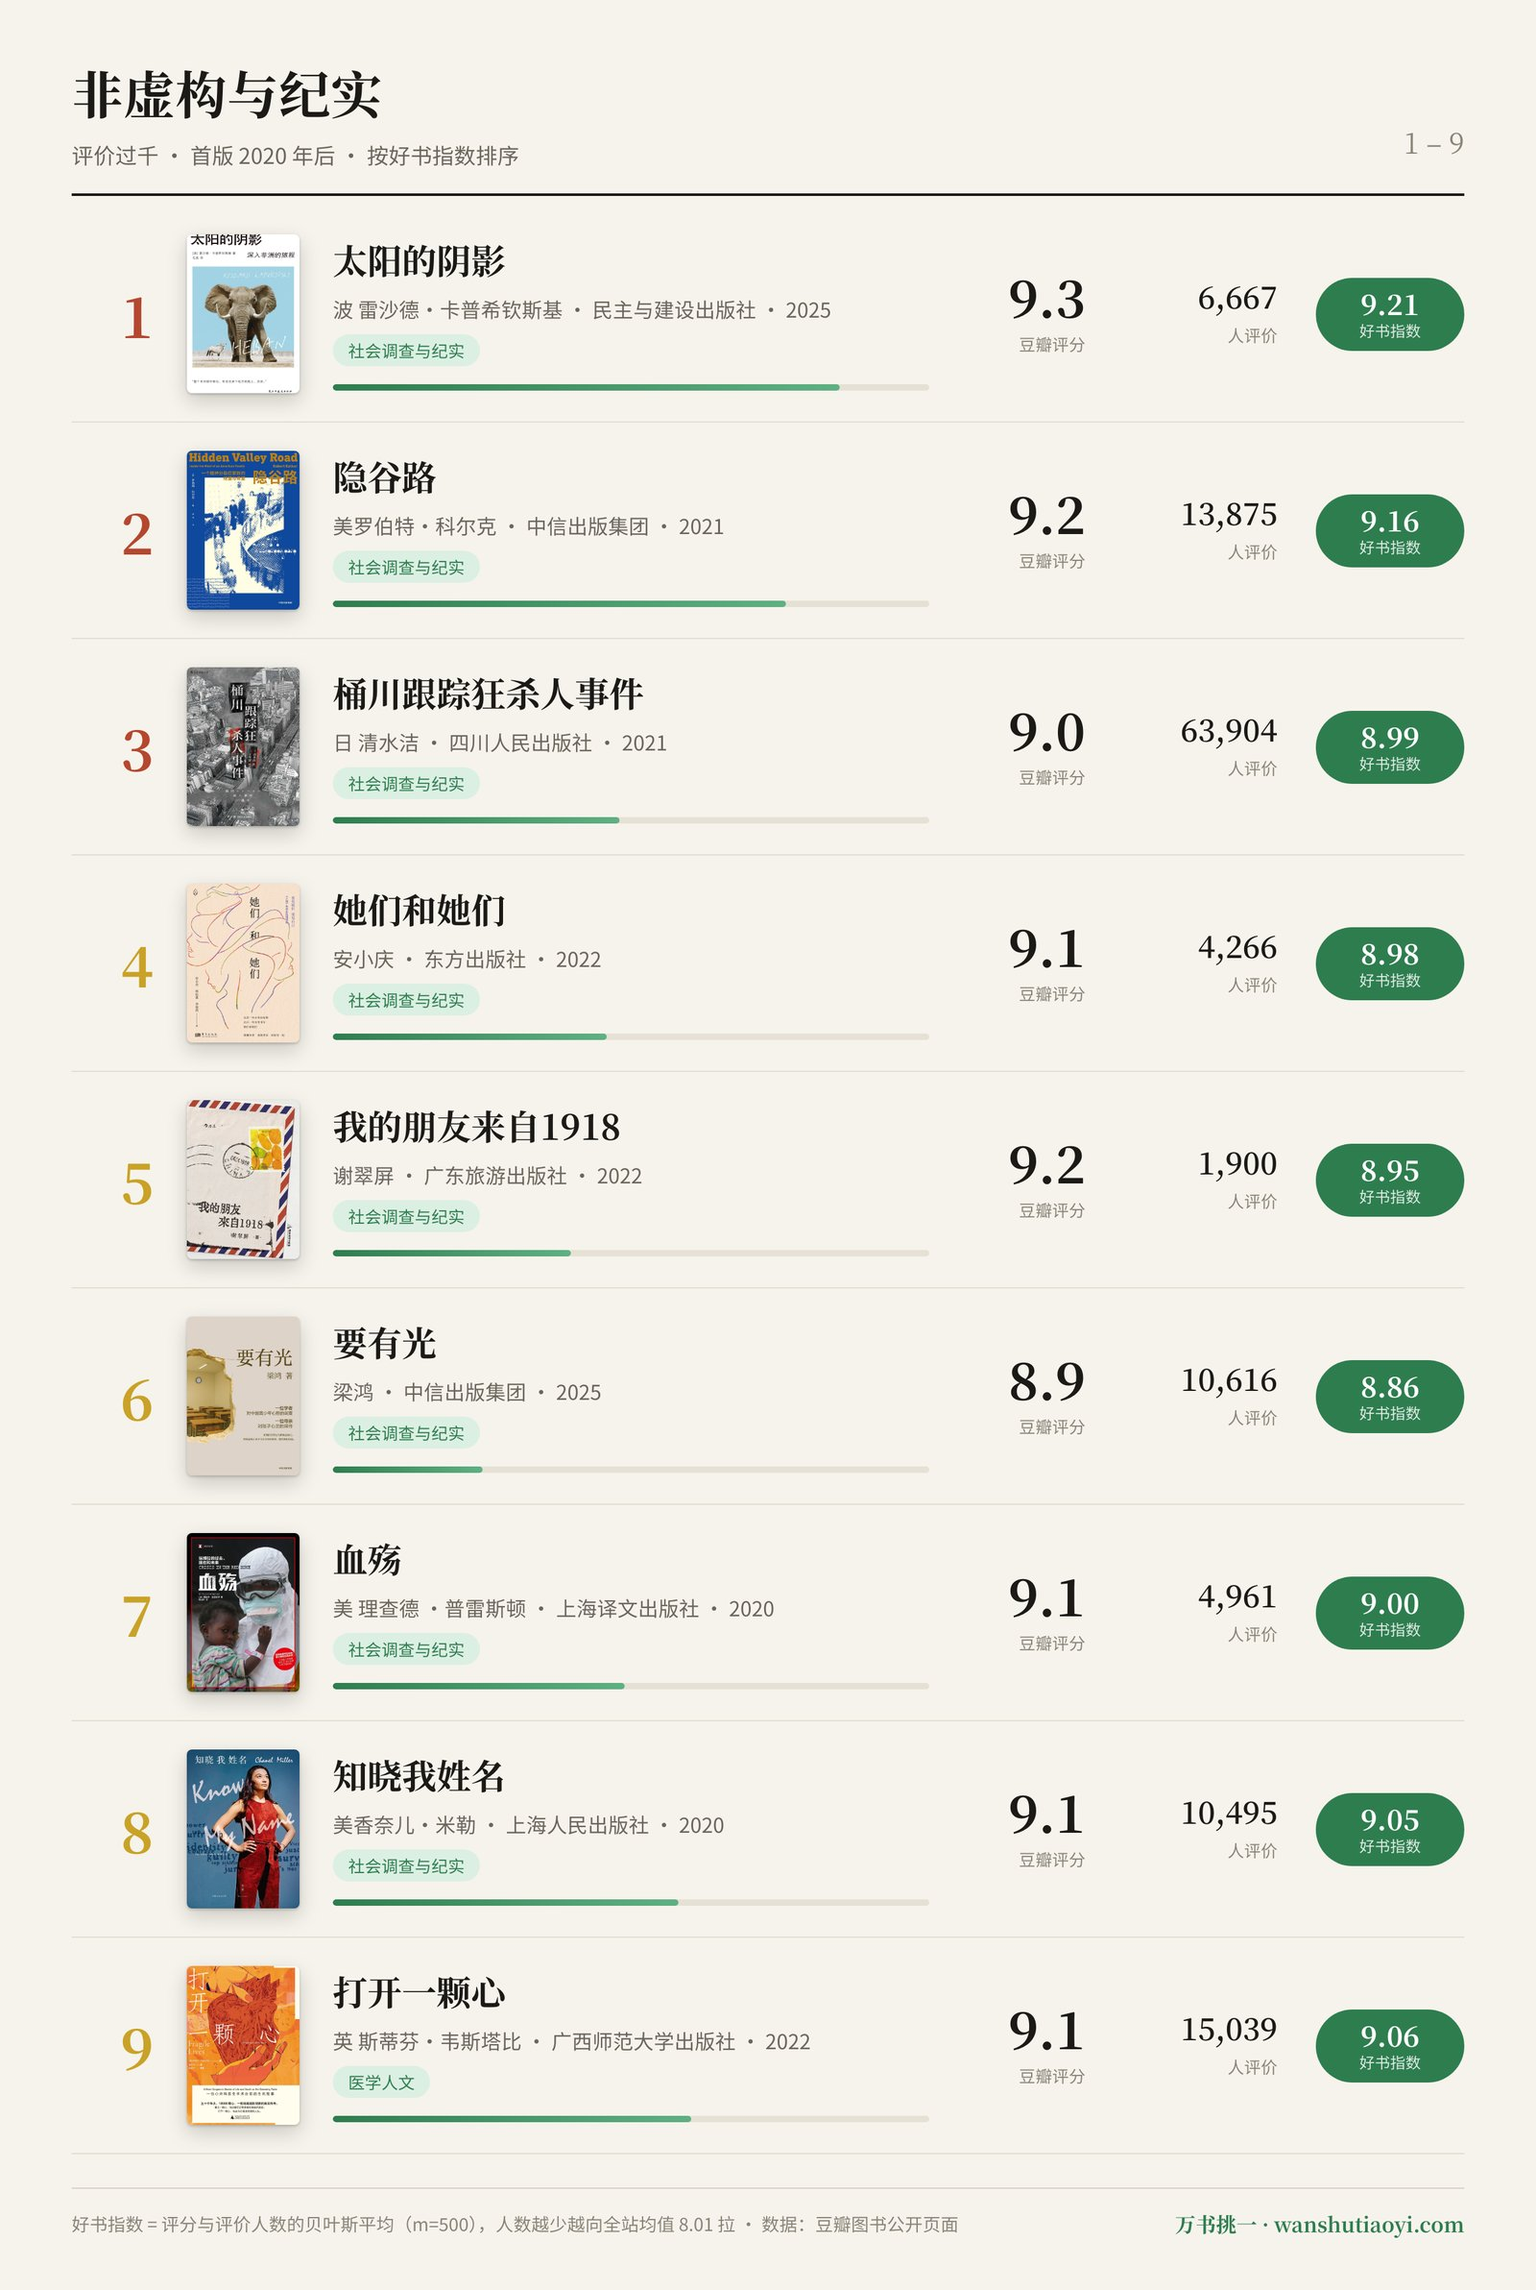
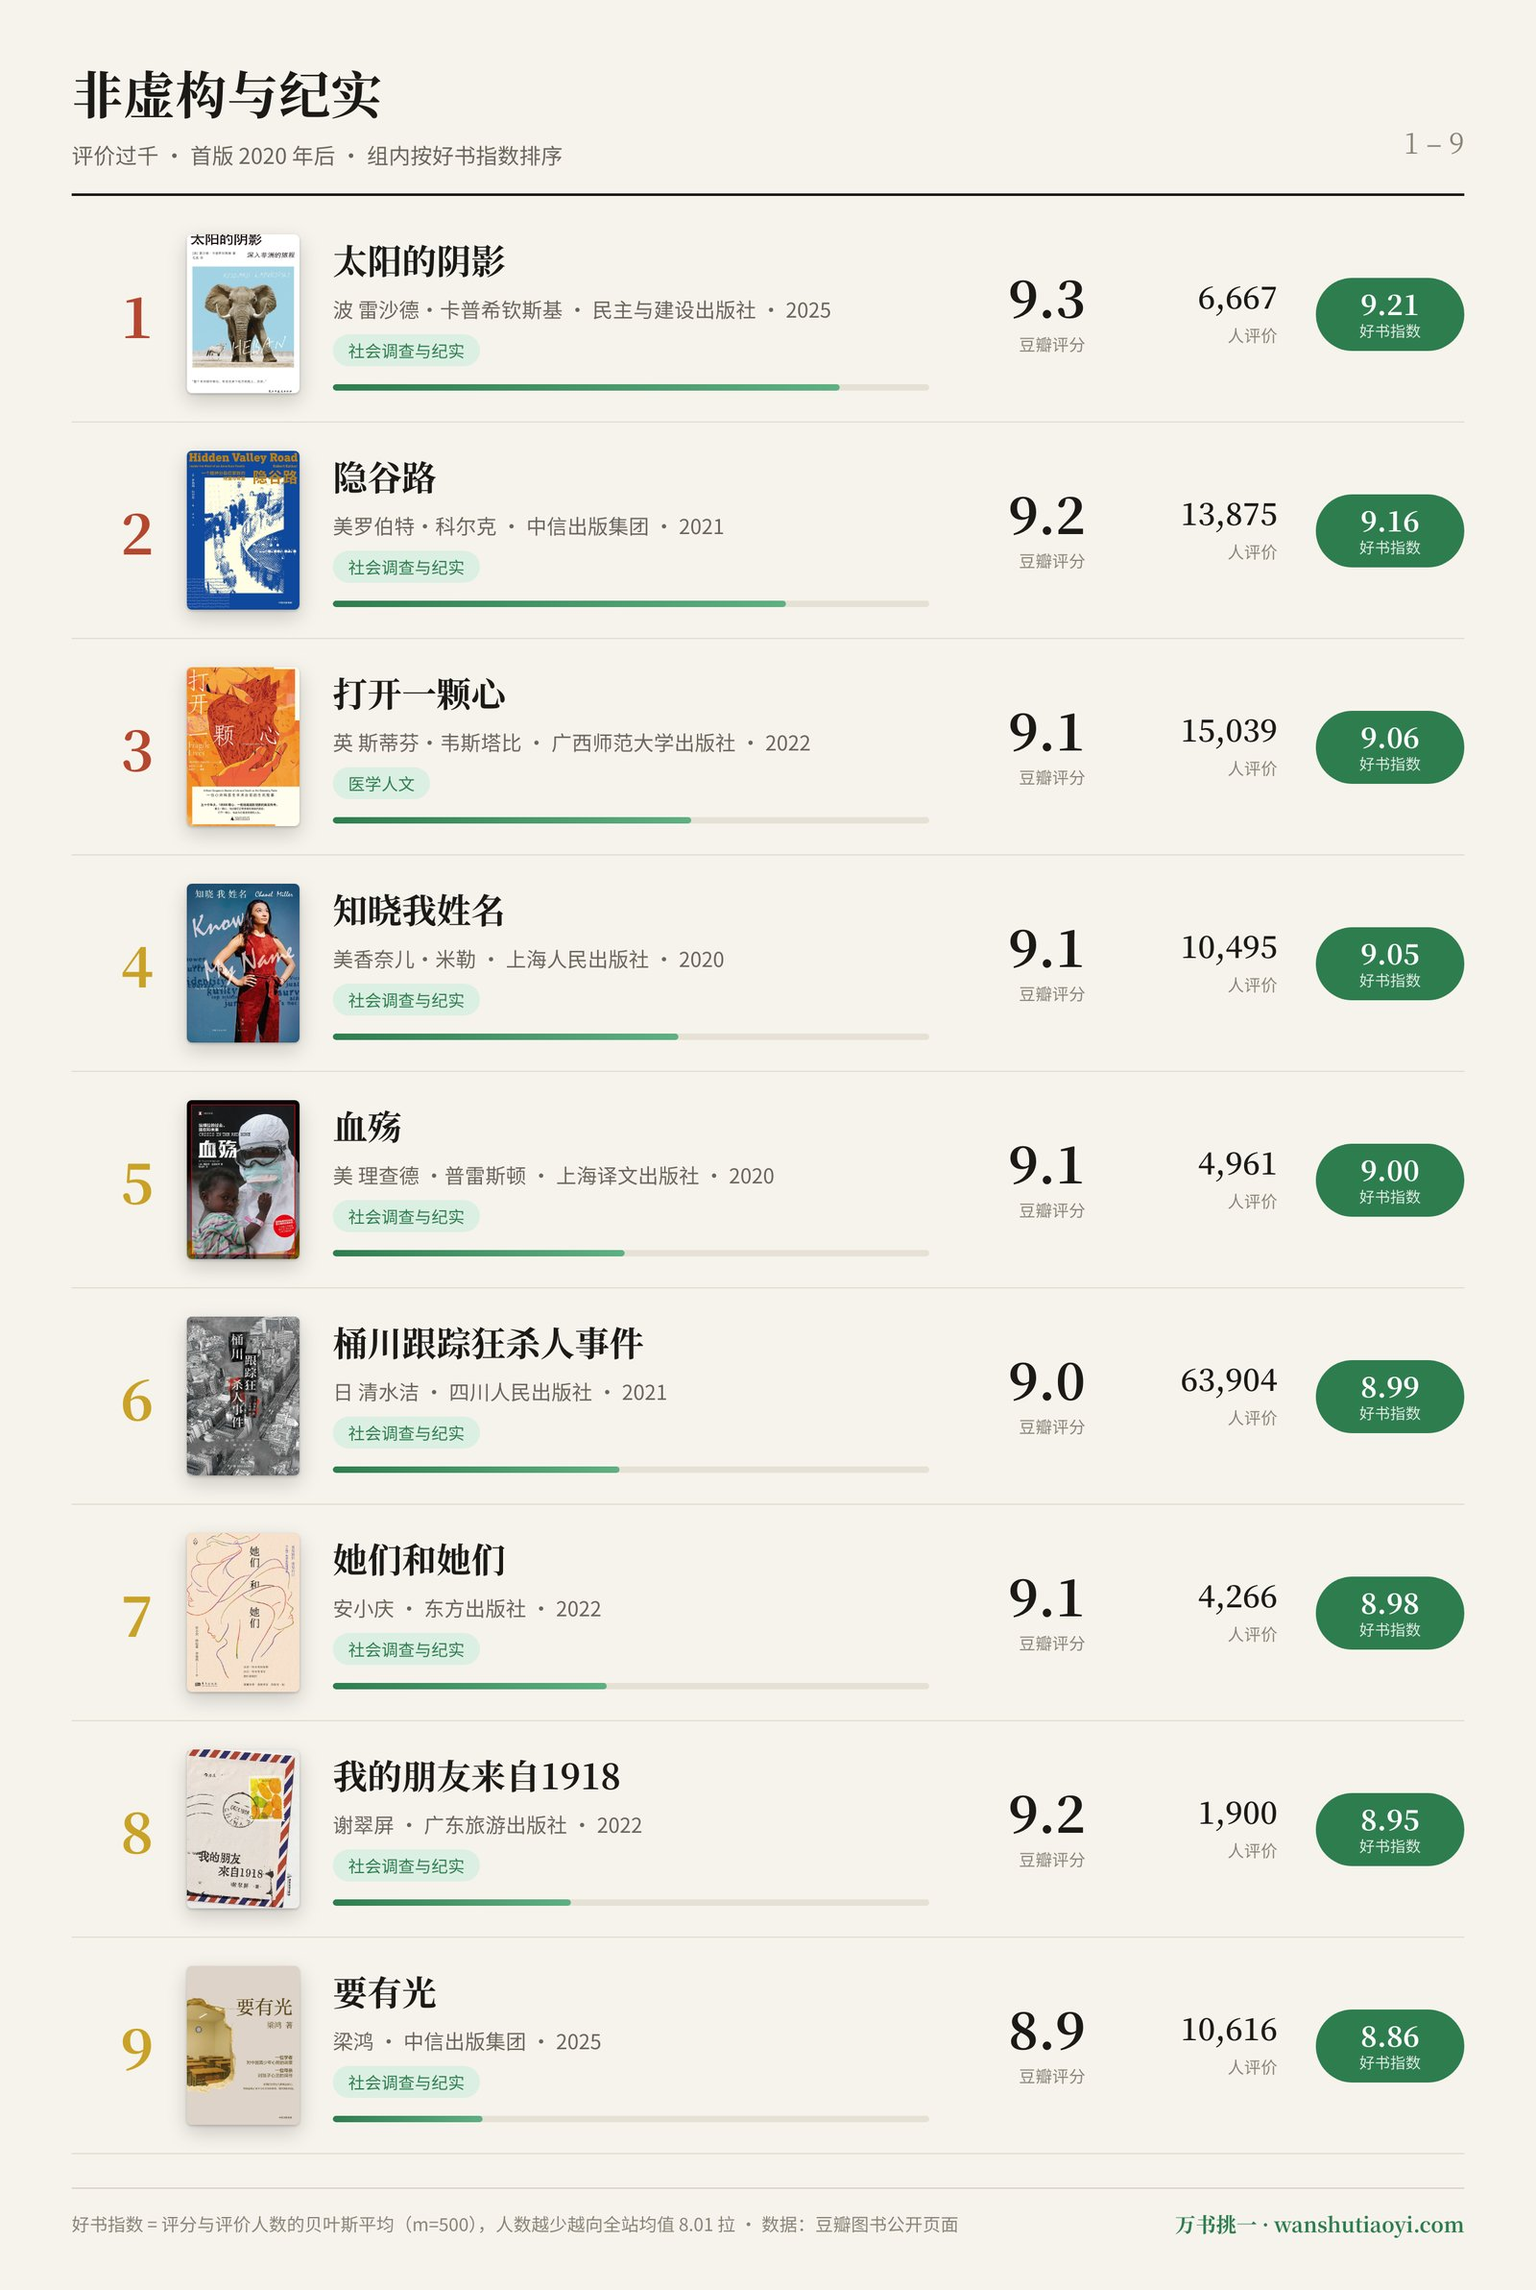
deploy: lanbing510/lanbing510-blog@d509bf0da1b7b3e3b798d0f2b98260b5d43360aa

diff --git a/2026/10/15/WanShuTiaoYiNew2020.html b/2026/10/15/WanShuTiaoYiNew2020.html
@@ -2723,7 +2723,7 @@ var _hmt = _hmt || [];
 
 <p>「首版年份」是这份榜单和站内列表最大的差别。站内筛「2020 年以后」会把老书新版一起列出来，本文按书名在全库里找最早的版本，1920 年就出过的不算新书。「首版」对译作指中文版首次出版。另外剔掉了三本评分分布可疑的书（几千人评价、三星以下为零）。</p>
 
-<p>四组是按 AI 主题归的：非虚构与纪实、历史与思想、文学与小说、经济·心理·科学·育儿。组内按好书指数排。</p>
+<p>四组是按 AI 主题归的：非虚构与纪实、历史与思想、文学与小说、经济·心理·科学·育儿。每组各自按好书指数从第 1 名排到第 9 名，组与组之间不分先后。</p>
 
 <h2>非虚构与纪实</h2>
 
@@ -2733,85 +2733,85 @@ var _hmt = _hmt || [];
 
 <p>2. <a href="https://wanshutiaoyi.com/book/35599712">隐谷路</a> — 一个美国家庭十二个孩子里六个患精神分裂症，科尔克追了这家人几十年，也追了精神医学这几十年</p>
 
-<p>3. <a href="https://wanshutiaoyi.com/book/35094680">桶川跟踪狂杀人事件</a> — 记者清水洁追查一桩跟踪狂杀人案，查出的是警方的渎职</p>
+<p>3. <a href="https://wanshutiaoyi.com/book/30277179">打开一颗心</a> — 英国心脏外科医生韦斯塔比的手术台回忆，生死都在几分钟里</p>
 
-<p>4. <a href="https://wanshutiaoyi.com/book/35998684">她们和她们</a> — 《人物》杂志三位记者的女性人物报道合集</p>
+<p>4. <a href="https://wanshutiaoyi.com/book/35093999">知晓我姓名</a> — 斯坦福性侵案受害者香奈儿·米勒的自述</p>
 
-<p>5. <a href="https://wanshutiaoyi.com/book/36153063">我的朋友来自1918</a> — 志愿者谢翠屏在广东麻风康复村陪伴老人十年的记录</p>
+<p>5. <a href="https://wanshutiaoyi.com/book/35013439">血殇</a> — 《血疫》作者普雷斯顿写 2014 年西非埃博拉疫情</p>
 
-<p>6. <a href="https://wanshutiaoyi.com/book/37407380">要有光</a> — 梁鸿写抑郁、辍学的青少年和他们的家庭，2025 年出版</p>
+<p>6. <a href="https://wanshutiaoyi.com/book/35094680">桶川跟踪狂杀人事件</a> — 记者清水洁追查一桩跟踪狂杀人案，查出的是警方的渎职</p>
 
-<p>7. <a href="https://wanshutiaoyi.com/book/35013439">血殇</a> — 《血疫》作者普雷斯顿写 2014 年西非埃博拉疫情</p>
+<p>7. <a href="https://wanshutiaoyi.com/book/35998684">她们和她们</a> — 《人物》杂志三位记者的女性人物报道合集</p>
 
-<p>8. <a href="https://wanshutiaoyi.com/book/35093999">知晓我姓名</a> — 斯坦福性侵案受害者香奈儿·米勒的自述</p>
+<p>8. <a href="https://wanshutiaoyi.com/book/36153063">我的朋友来自1918</a> — 志愿者谢翠屏在广东麻风康复村陪伴老人十年的记录</p>
 
-<p>9. <a href="https://wanshutiaoyi.com/book/30277179">打开一颗心</a> — 英国心脏外科医生韦斯塔比的手术台回忆，生死都在几分钟里</p>
+<p>9. <a href="https://wanshutiaoyi.com/book/37407380">要有光</a> — 梁鸿写抑郁、辍学的青少年和他们的家庭，2025 年出版</p>
 
 <h2>历史与思想</h2>
 
 <p><img src="/public/img/posts/wanshutiaoyi/new2020/panel_2.jpg" width="800px"> </img></p>
 
-<p>10. <a href="https://wanshutiaoyi.com/book/34928222">第三帝国的到来</a> — 埃文斯「第三帝国三部曲」第一部，纳粹怎么一步步上台；第二、三部《当权的第三帝国》《战时的第三帝国》同年出版，也都在 9 分以上</p>
+<p>1. <a href="https://wanshutiaoyi.com/book/34928222">第三帝国的到来</a> — 埃文斯「第三帝国三部曲」第一部，纳粹怎么一步步上台；第二、三部《当权的第三帝国》《战时的第三帝国》同年出版，也都在 9 分以上</p>
 
-<p>11. <a href="https://wanshutiaoyi.com/book/36794613">康熙的红票</a> — 从一张康熙发给欧洲传教士的红色谕令说起，讲清初宫廷和耶稣会士的关系，19,301 人评出 9.3 分</p>
+<p>2. <a href="https://wanshutiaoyi.com/book/36794613">康熙的红票</a> — 从一张康熙发给欧洲传教士的红色谕令说起，讲清初宫廷和耶稣会士的关系，19,301 人评出 9.3 分</p>
 
-<p>12. <a href="https://wanshutiaoyi.com/book/37005453">秦汉史讲义</a> — 秦晖讲周秦之变和秦汉制度</p>
+<p>3. <a href="https://wanshutiaoyi.com/book/35313227">刘擎西方现代思想讲义</a> — 从韦伯讲到罗尔斯的现代思想入门，47,221 人评</p>
 
-<p>13. <a href="https://wanshutiaoyi.com/book/34893711">将无同</a> — 胡宝国的魏晋南北朝史论集，学术书，1,644 人评出 9.5 分</p>
+<p>4. <a href="https://wanshutiaoyi.com/book/34896921">父权制与资本主义</a> — 上野千鹤子的理论代表作：家务劳动怎么被父权制和资本主义同时利用</p>
 
-<p>14. <a href="https://wanshutiaoyi.com/book/34988830">燃烧的大洋</a> — 伊恩·托尔「太平洋战争三部曲」第一部，珍珠港到中途岛</p>
+<p>5. <a href="https://wanshutiaoyi.com/book/34893711">将无同</a> — 胡宝国的魏晋南北朝史论集，学术书，1,644 人评出 9.5 分</p>
 
-<p>15. <a href="https://wanshutiaoyi.com/book/35313227">刘擎西方现代思想讲义</a> — 从韦伯讲到罗尔斯的现代思想入门，47,221 人评</p>
+<p>6. <a href="https://wanshutiaoyi.com/book/34988830">燃烧的大洋</a> — 伊恩·托尔「太平洋战争三部曲」第一部，珍珠港到中途岛</p>
 
-<p>16. <a href="https://wanshutiaoyi.com/book/34896921">父权制与资本主义</a> — 上野千鹤子的理论代表作：家务劳动怎么被父权制和资本主义同时利用</p>
+<p>7. <a href="https://wanshutiaoyi.com/book/35942057">看不见的女性</a> — 用数据说明这个世界默认按男性身体设计，从安全带到药物剂量</p>
 
-<p>17. <a href="https://wanshutiaoyi.com/book/35942057">看不见的女性</a> — 用数据说明这个世界默认按男性身体设计，从安全带到药物剂量</p>
+<p>8. <a href="https://wanshutiaoyi.com/book/35494026">瓜亚基印第安人编年史</a> — 克拉斯特在巴拉圭雨林里的民族志，写一个正在消失的部落</p>
 
-<p>18. <a href="https://wanshutiaoyi.com/book/35494026">瓜亚基印第安人编年史</a> — 克拉斯特在巴拉圭雨林里的民族志，写一个正在消失的部落</p>
+<p>9. <a href="https://wanshutiaoyi.com/book/37005453">秦汉史讲义</a> — 秦晖讲周秦之变和秦汉制度</p>
 
 <h2>文学与小说</h2>
 
 <p><img src="/public/img/posts/wanshutiaoyi/new2020/panel_3.jpg" width="800px"> </img></p>
 
-<p>19. <a href="https://wanshutiaoyi.com/book/35268657">大地之上</a> — 米斯特里写 1975 年紧急状态下的印度，四个人挤在一间公寓里过日子，9.4 分</p>
+<p>1. <a href="https://wanshutiaoyi.com/book/35268657">大地之上</a> — 米斯特里写 1975 年紧急状态下的印度，四个人挤在一间公寓里过日子，9.4 分</p>
 
-<p>20. <a href="https://wanshutiaoyi.com/book/35517022">鹿川有许多粪</a> — 导演李沧东三十年前写的小说集，2021 年才有中文版，43,316 人评</p>
+<p>2. <a href="https://wanshutiaoyi.com/book/37436726">我才不想做家务</a> — 纪静蓉 2025 年的长篇，一个家庭里谁来做家务的问题</p>
 
-<p>21. <a href="https://wanshutiaoyi.com/book/35430425">流俗地</a> — 黎紫书写马来西亚怡保一个盲女的一生，近 5 万人评</p>
+<p>3. <a href="https://wanshutiaoyi.com/book/35430425">流俗地</a> — 黎紫书写马来西亚怡保一个盲女的一生，近 5 万人评</p>
 
-<p>22. <a href="https://wanshutiaoyi.com/book/34998019">秋园</a> — 杨本芬八十岁写下母亲的一生，15 万人评</p>
+<p>4. <a href="https://wanshutiaoyi.com/book/35494160">挽救计划</a> — 《火星救援》作者安迪·威尔的新作，一个人在太空里解一道题</p>
 
-<p>23. <a href="https://wanshutiaoyi.com/book/36457094">明亮的夜晚</a> — 崔恩荣写从曾外祖母到「我」的四代女性</p>
+<p>5. <a href="https://wanshutiaoyi.com/book/36328704">太白金星有点烦</a> — 马伯庸把取经写成一个项目，太白金星是项目经理，15 万人评</p>
 
-<p>24. <a href="https://wanshutiaoyi.com/book/37436726">我才不想做家务</a> — 纪静蓉 2025 年的长篇，一个家庭里谁来做家务的问题</p>
+<p>6. <a href="https://wanshutiaoyi.com/book/34998019">秋园</a> — 杨本芬八十岁写下母亲的一生，15 万人评</p>
 
-<p>25. <a href="https://wanshutiaoyi.com/book/35379215">她来自马里乌波尔</a> — 沃丁追寻母亲作为乌克兰强制劳工的身世</p>
+<p>7. <a href="https://wanshutiaoyi.com/book/36457094">明亮的夜晚</a> — 崔恩荣写从曾外祖母到「我」的四代女性</p>
 
-<p>26. <a href="https://wanshutiaoyi.com/book/35494160">挽救计划</a> — 《火星救援》作者安迪·威尔的新作，一个人在太空里解一道题</p>
+<p>8. <a href="https://wanshutiaoyi.com/book/35379215">她来自马里乌波尔</a> — 沃丁追寻母亲作为乌克兰强制劳工的身世</p>
 
-<p>27. <a href="https://wanshutiaoyi.com/book/36328704">太白金星有点烦</a> — 马伯庸把取经写成一个项目，太白金星是项目经理，15 万人评</p>
+<p>9. <a href="https://wanshutiaoyi.com/book/35517022">鹿川有许多粪</a> — 导演李沧东三十年前写的小说集，2021 年才有中文版，43,316 人评</p>
 
 <h2>经济 · 心理 · 科学 · 育儿</h2>
 
 <p><img src="/public/img/posts/wanshutiaoyi/new2020/panel_4.jpg" width="800px"> </img></p>
 
-<p>28. <a href="https://wanshutiaoyi.com/book/35546622">置身事内</a> — 兰小欢讲地方政府的经济逻辑，109,117 人评，这五年评价人数最多的社科书</p>
+<p>1. <a href="https://wanshutiaoyi.com/book/36438791">芒格之道</a> — 芒格历年股东会讲话合集</p>
 
-<p>29. <a href="https://wanshutiaoyi.com/book/35149551">分析与思考</a> — 黄奇帆在复旦的十二场讲座</p>
+<p>2. <a href="https://wanshutiaoyi.com/book/36344591">女孩之书</a> — 两位挪威医生写给青春期女孩的身体书</p>
 
-<p>30. <a href="https://wanshutiaoyi.com/book/36438791">芒格之道</a> — 芒格历年股东会讲话合集</p>
+<p>3. <a href="https://wanshutiaoyi.com/book/35149551">分析与思考</a> — 黄奇帆在复旦的十二场讲座</p>
 
-<p>31. <a href="https://wanshutiaoyi.com/book/35902211">金钱博弈</a> — 单伟建讲亚洲金融危机后收购韩国第一银行的全过程</p>
+<p>4. <a href="https://wanshutiaoyi.com/book/35546622">置身事内</a> — 兰小欢讲地方政府的经济逻辑，109,117 人评，这五年评价人数最多的社科书</p>
 
-<p>32. <a href="https://wanshutiaoyi.com/book/35481512">也许你该找个人聊聊</a> — 心理治疗师戈特利布写她的来访者，也写她自己去看治疗师</p>
+<p>5. <a href="https://wanshutiaoyi.com/book/36427596">看见孩子</a> — 贝姬·肯尼迪的教养方法，「孩子的行为背后都有原因」</p>
 
-<p>33. <a href="https://wanshutiaoyi.com/book/36700758">早安，怪物</a> — 吉尔迪纳的五个来访者的故事</p>
+<p>6. <a href="https://wanshutiaoyi.com/book/35902211">金钱博弈</a> — 单伟建讲亚洲金融危机后收购韩国第一银行的全过程</p>
 
-<p>34. <a href="https://wanshutiaoyi.com/book/35221093">复杂生命的起源</a> — 尼克·莱恩讲能量和线粒体为什么决定了复杂生命只出现过一次</p>
+<p>7. <a href="https://wanshutiaoyi.com/book/35481512">也许你该找个人聊聊</a> — 心理治疗师戈特利布写她的来访者，也写她自己去看治疗师</p>
 
-<p>35. <a href="https://wanshutiaoyi.com/book/36344591">女孩之书</a> — 两位挪威医生写给青春期女孩的身体书</p>
+<p>8. <a href="https://wanshutiaoyi.com/book/36700758">早安，怪物</a> — 吉尔迪纳的五个来访者的故事</p>
 
-<p>36. <a href="https://wanshutiaoyi.com/book/36427596">看见孩子</a> — 贝姬·肯尼迪的教养方法，「孩子的行为背后都有原因」</p>
+<p>9. <a href="https://wanshutiaoyi.com/book/35221093">复杂生命的起源</a> — 尼克·莱恩讲能量和线粒体为什么决定了复杂生命只出现过一次</p>
 
 <h2>几本多说两句</h2>
 
